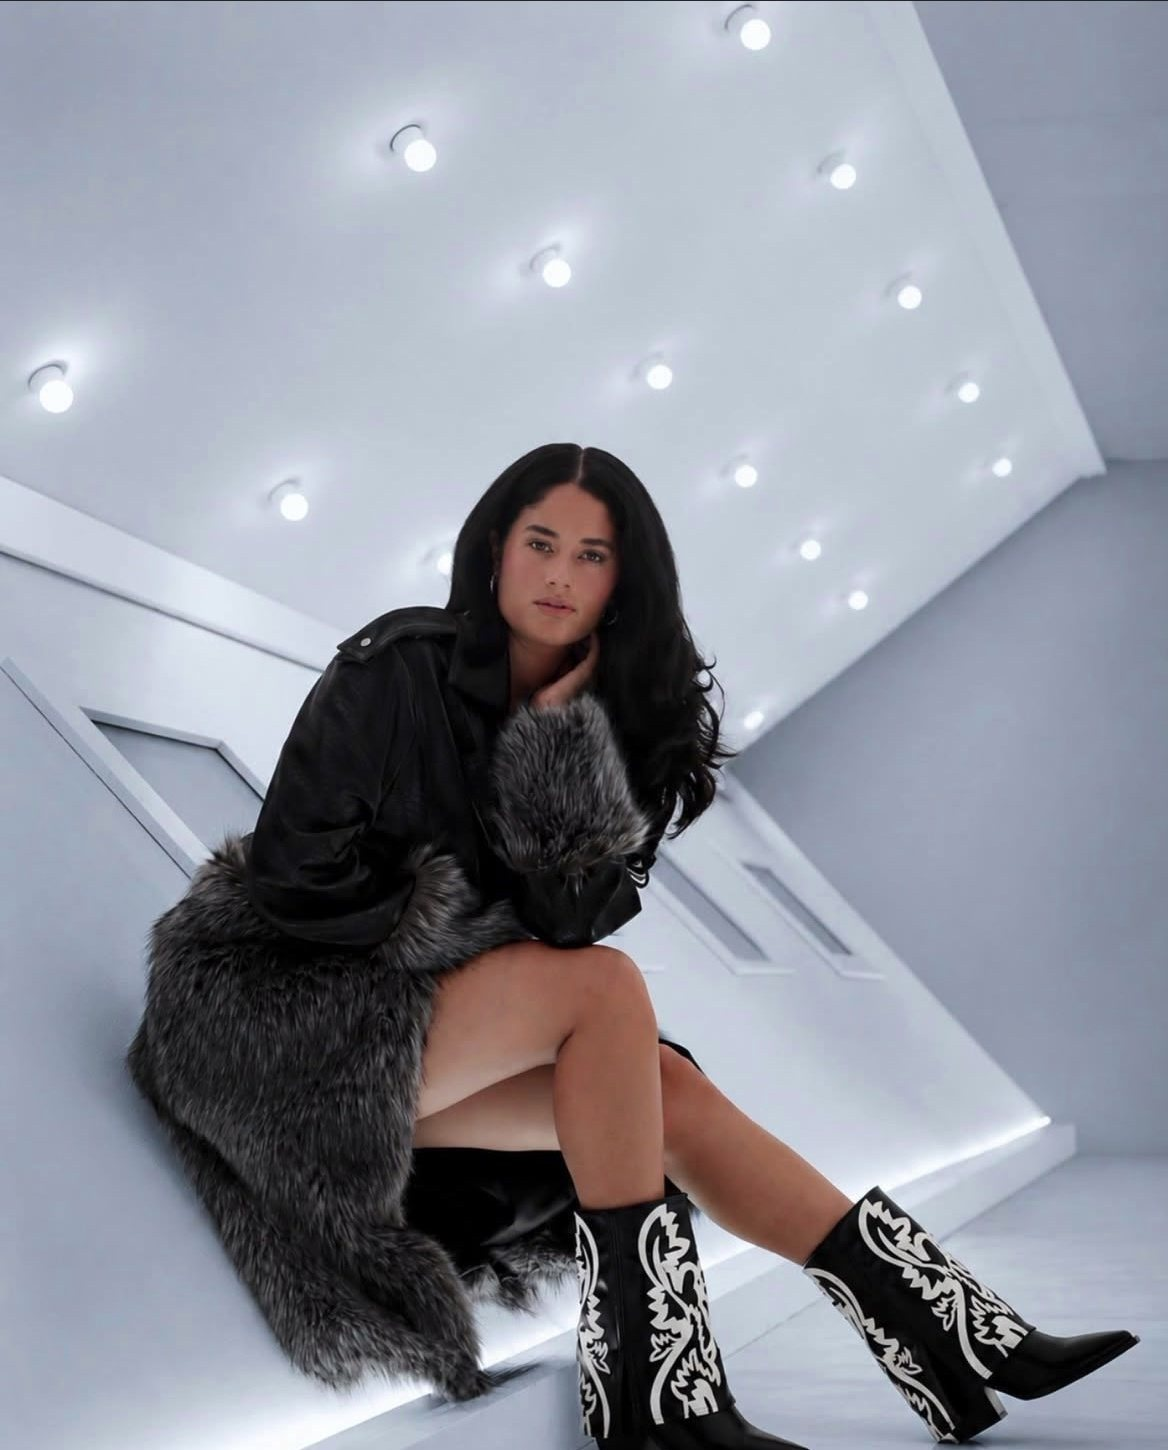
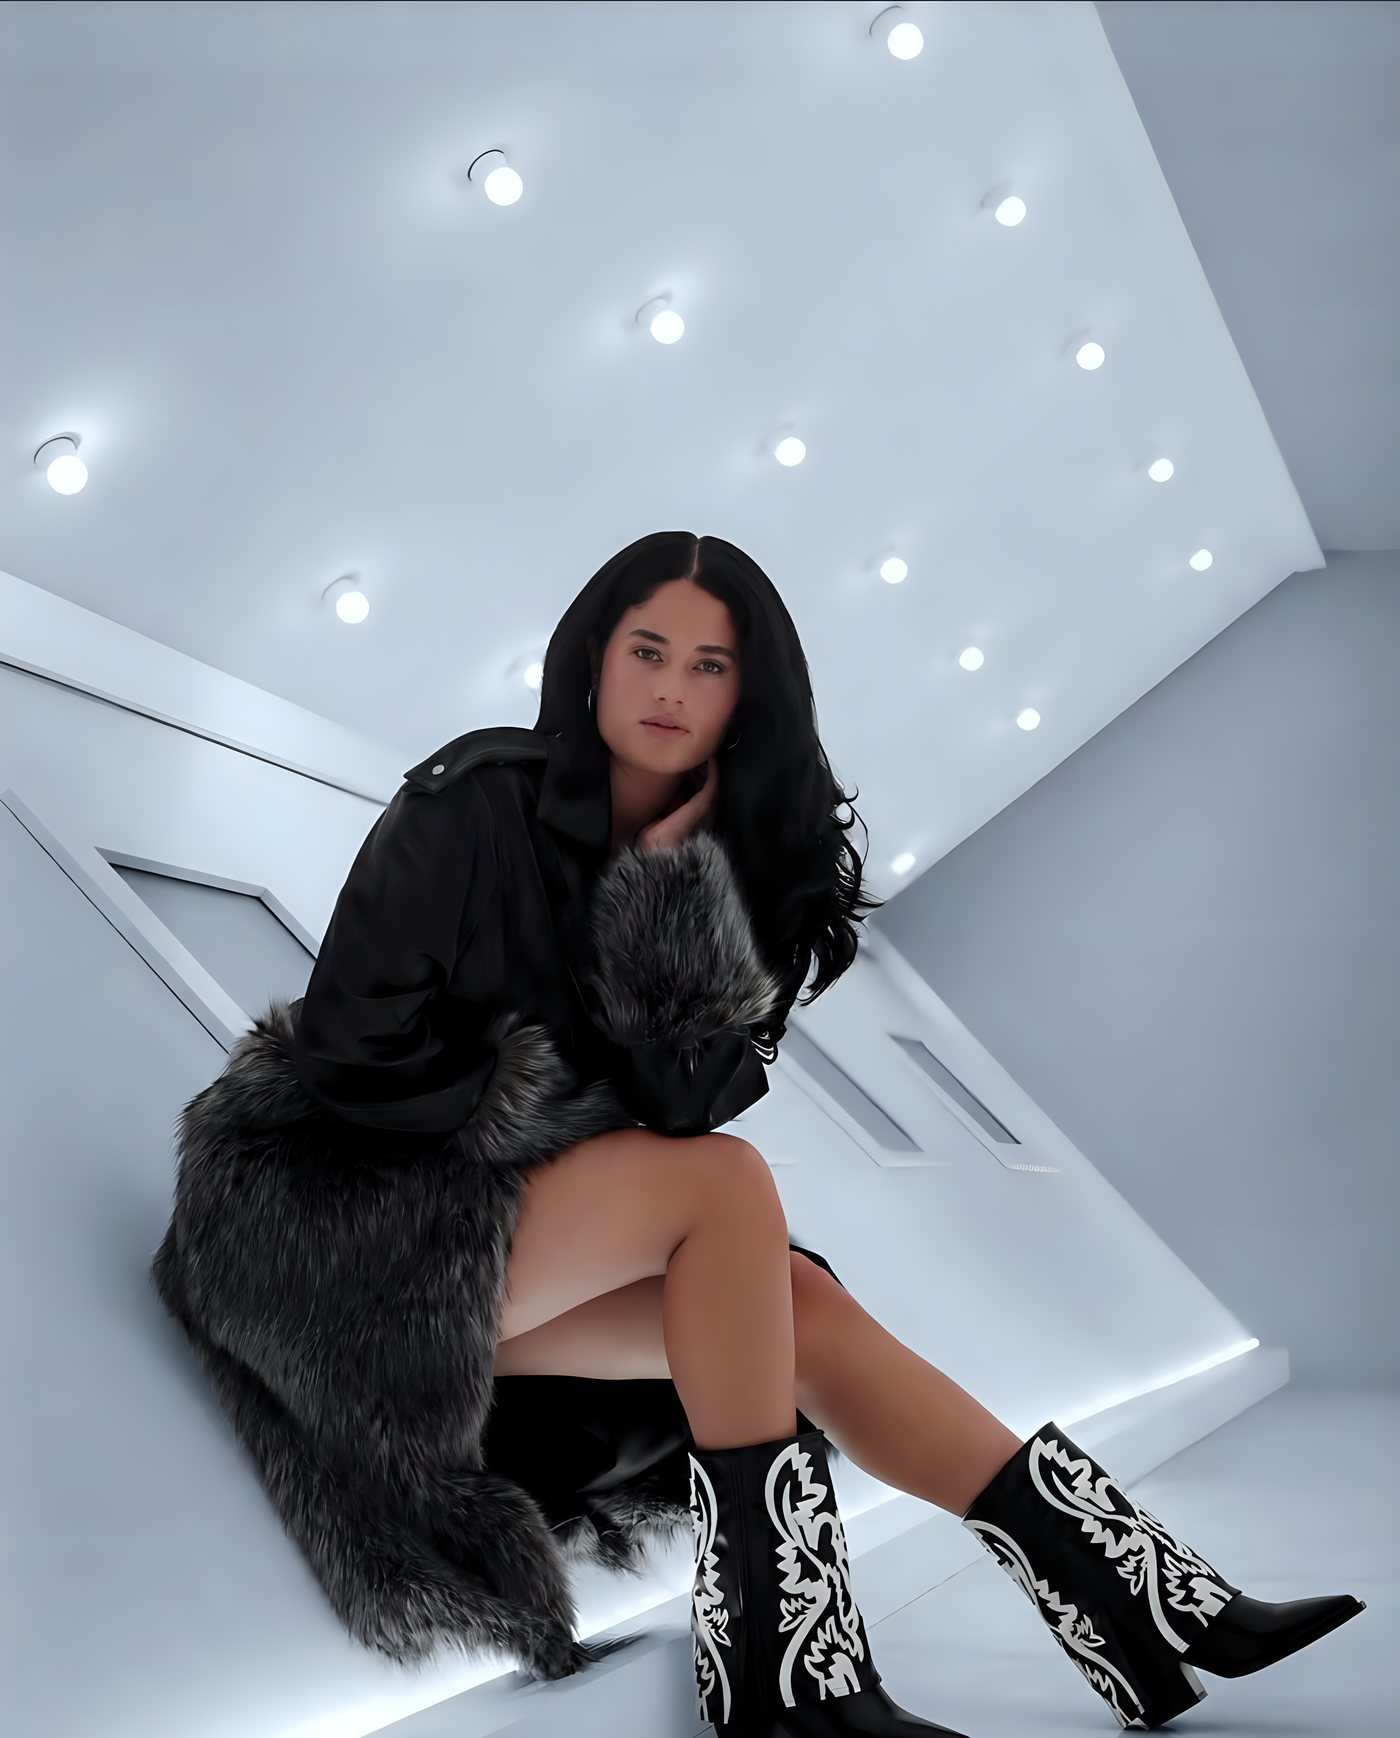
Enhance every Book a Shoot image and keep all heads in frame
All 16 portfolio images are re-upscaled 4x with Real-ESRGAN from their
cleanest source frames and saved at 1400px.
- Silver-beard portrait: Instagram's "1/2" badge is painted out
  instead of cropped, so his full head is back.
- Fitness bench shot: re-cropped higher from the flyer with the frame
  line painted out, so the whole beanie shows.

An automated face check (crop and overlap, 7 viewport widths) reports
no hidden faces.

Claude-Session: https://claude.ai/code/session_018kHvtx6hTxezyWP4kJpPeQ

diff --git a/book-a-shoot/index.html b/book-a-shoot/index.html
@@ -246,9 +246,9 @@
       </div>
     </div>
     <div class="bs-stack" aria-hidden="true">
-      <figure class="s1"><img src="../images/book-a-shoot/editorial-lace.jpg" alt="" width="1168" height="1455"></figure>
-      <figure class="s2"><img src="../images/book-a-shoot/editorial-blue.jpg" alt="" width="1168" height="1340" style="object-position:center 20%"></figure>
-      <figure class="s3"><img src="../images/book-a-shoot/portrait-white-dress.jpg" alt="" width="1168" height="1340" style="object-position:62% center"><figcaption>@aureanatphoto</figcaption></figure>
+      <figure class="s1"><img src="../images/book-a-shoot/editorial-lace.jpg" alt="" width="1400" height="1744"></figure>
+      <figure class="s2"><img src="../images/book-a-shoot/editorial-blue.jpg" alt="" width="1400" height="1606" style="object-position:center 20%"></figure>
+      <figure class="s3"><img src="../images/book-a-shoot/portrait-white-dress.jpg" alt="" width="1400" height="1606" style="object-position:62% center"><figcaption>@aureanatphoto</figcaption></figure>
     </div>
   </div>
 </header>
@@ -264,7 +264,7 @@
     </p>
     <div class="bs-services">
       <article class="bs-card" id="fitness">
-        <div class="media"><img src="../images/book-a-shoot/fitness-bench.jpg" alt="Woman in a black training set seated on a gym bench in front of a dumbbell rack" width="1200" height="1784" loading="lazy" style="object-position:center 4%"></div>
+        <div class="media"><img src="../images/book-a-shoot/fitness-bench.jpg" alt="Woman in a black training set seated on a gym bench in front of a dumbbell rack" width="1200" height="1977" loading="lazy" style="object-position:center top"></div>
         <div class="body">
           <div class="tag">In the gym</div>
           <h3>Fitness Shoot</h3>
@@ -274,7 +274,7 @@
         </div>
       </article>
       <article class="bs-card" id="headshots">
-        <div class="media"><img src="../images/book-a-shoot/headshot-blonde.jpg" alt="Close-up portrait of a woman with long wavy strawberry-blonde hair" width="1168" height="940" loading="lazy" style="object-position:48% center"></div>
+        <div class="media"><img src="../images/book-a-shoot/headshot-blonde.jpg" alt="Close-up portrait of a woman with long wavy strawberry-blonde hair" width="1400" height="1127" loading="lazy" style="object-position:48% center"></div>
         <div class="body">
           <div class="tag">Professional</div>
           <h3>Headshots</h3>
@@ -284,7 +284,7 @@
         </div>
       </article>
       <article class="bs-card" id="individual">
-        <div class="media"><img src="../images/book-a-shoot/editorial-lace.jpg" alt="Woman in black lace and thigh-high boots posing on a chair among stacked vintage TVs" width="1168" height="1455" loading="lazy" style="object-position:center 15%"></div>
+        <div class="media"><img src="../images/book-a-shoot/editorial-lace.jpg" alt="Woman in black lace and thigh-high boots posing on a chair among stacked vintage TVs" width="1400" height="1744" loading="lazy" style="object-position:center 15%"></div>
         <div class="body">
           <div class="tag">Portrait &amp; editorial</div>
           <h3>Individual Shoot</h3>
@@ -318,21 +318,21 @@
     </p>
   </div>
   <div class="bs-reel" id="bsReel" tabindex="0" aria-label="Portfolio photos. Swipe or scroll sideways">
-    <figure><img src="../images/book-a-shoot/editorial-blue.jpg" width="1168" height="1340" alt="Woman with long blonde hair lit in blue, hands raised to her head"><figcaption>Editorial</figcaption></figure>
-    <figure><img src="../images/book-a-shoot/headshot-blonde.jpg" width="1168" height="940" loading="lazy" alt="Close-up portrait of a woman with long wavy strawberry-blonde hair"><figcaption>Headshot</figcaption></figure>
-    <figure><img src="../images/book-a-shoot/editorial-lace.jpg" width="1168" height="1455" loading="lazy" alt="Woman in black lace and thigh-high boots among stacked vintage TVs"><figcaption>Editorial</figcaption></figure>
-    <figure><img src="../images/book-a-shoot/fitness-bench.jpg" width="1200" height="1784" loading="lazy" alt="Woman in a black training set seated on a gym bench"><figcaption>Fitness</figcaption></figure>
-    <figure><img src="../images/book-a-shoot/editorial-bw.jpg" width="1168" height="1380" loading="lazy" alt="Black-and-white poolside portrait of a woman in a polka-dot swimsuit, headscarf and sunglasses"><figcaption>Editorial</figcaption></figure>
-    <figure><img src="../images/book-a-shoot/portrait-white-dress.jpg" width="1168" height="1340" loading="lazy" alt="Woman in a white slip dress seated by a window"><figcaption>Portrait</figcaption></figure>
-    <figure><img src="../images/book-a-shoot/editorial-fur.jpg" width="1168" height="1450" loading="lazy" alt="Woman in a fur coat and western boots in a white light tunnel"><figcaption>Editorial</figcaption></figure>
-    <figure><img src="../images/book-a-shoot/headshot-silver.jpg" width="1168" height="980" loading="lazy" alt="Man with a long white beard and bold black glasses in a white shirt"><figcaption>Portrait</figcaption></figure>
-    <figure><img src="../images/book-a-shoot/editorial-purple.jpg" width="1168" height="1455" loading="lazy" alt="Man in sunglasses and a utility vest against a purple collage wall"><figcaption>Editorial</figcaption></figure>
-    <figure><img src="../images/book-a-shoot/runway.jpg" width="680" height="1500" loading="lazy" alt="Model in a sheer black gown on an outdoor runway at night"><figcaption>Runway</figcaption></figure>
-    <figure><img src="../images/book-a-shoot/portrait-denim.jpg" width="898" height="1345" loading="lazy" alt="Man in a patchwork denim jacket posing against a denim wall"><figcaption>Portrait</figcaption></figure>
-    <figure><img src="../images/book-a-shoot/editorial-pool.jpg" width="1168" height="1200" loading="lazy" alt="Woman in sunglasses and a black-and-white set leaning on a tiled poolside bar"><figcaption>Editorial</figcaption></figure>
-    <figure><img src="../images/book-a-shoot/duo.jpg" width="1168" height="1440" loading="lazy" alt="Two women with red neck scarves posing together on a tufted sofa"><figcaption>Duo</figcaption></figure>
-    <figure><img src="../images/book-a-shoot/editorial-red.jpg" width="1170" height="1270" loading="lazy" alt="Man in a striped knit stretching in front of a red circle on a white set"><figcaption>Editorial</figcaption></figure>
-    <figure><img src="../images/book-a-shoot/portrait-blue.jpg" width="1055" height="1417" loading="lazy" alt="Man in an open black wrap shirt against a pale blue backdrop"><figcaption>Portrait</figcaption></figure>
+    <figure><img src="../images/book-a-shoot/editorial-blue.jpg" width="1400" height="1606" alt="Woman with long blonde hair lit in blue, hands raised to her head"><figcaption>Editorial</figcaption></figure>
+    <figure><img src="../images/book-a-shoot/headshot-blonde.jpg" width="1400" height="1127" loading="lazy" alt="Close-up portrait of a woman with long wavy strawberry-blonde hair"><figcaption>Headshot</figcaption></figure>
+    <figure><img src="../images/book-a-shoot/editorial-lace.jpg" width="1400" height="1744" loading="lazy" alt="Woman in black lace and thigh-high boots among stacked vintage TVs"><figcaption>Editorial</figcaption></figure>
+    <figure><img src="../images/book-a-shoot/fitness-bench.jpg" width="1200" height="1977" loading="lazy" alt="Woman in a black training set seated on a gym bench"><figcaption>Fitness</figcaption></figure>
+    <figure><img src="../images/book-a-shoot/editorial-bw.jpg" width="1400" height="1654" loading="lazy" alt="Black-and-white poolside portrait of a woman in a polka-dot swimsuit, headscarf and sunglasses"><figcaption>Editorial</figcaption></figure>
+    <figure><img src="../images/book-a-shoot/portrait-white-dress.jpg" width="1400" height="1606" loading="lazy" alt="Woman in a white slip dress seated by a window"><figcaption>Portrait</figcaption></figure>
+    <figure><img src="../images/book-a-shoot/editorial-fur.jpg" width="1400" height="1738" loading="lazy" alt="Woman in a fur coat and western boots in a white light tunnel"><figcaption>Editorial</figcaption></figure>
+    <figure><img src="../images/book-a-shoot/headshot-silver.jpg" width="1400" height="1378" loading="lazy" alt="Man with a long white beard and bold black glasses in a white shirt"><figcaption>Portrait</figcaption></figure>
+    <figure><img src="../images/book-a-shoot/editorial-purple.jpg" width="1400" height="1744" loading="lazy" alt="Man in sunglasses and a utility vest against a purple collage wall"><figcaption>Editorial</figcaption></figure>
+    <figure><img src="../images/book-a-shoot/runway.jpg" width="900" height="1985" loading="lazy" alt="Model in a sheer black gown on an outdoor runway at night"><figcaption>Runway</figcaption></figure>
+    <figure><img src="../images/book-a-shoot/portrait-denim.jpg" width="1400" height="2097" loading="lazy" alt="Man in a patchwork denim jacket posing against a denim wall"><figcaption>Portrait</figcaption></figure>
+    <figure><img src="../images/book-a-shoot/editorial-pool.jpg" width="1400" height="1438" loading="lazy" alt="Woman in sunglasses and a black-and-white set leaning on a tiled poolside bar"><figcaption>Editorial</figcaption></figure>
+    <figure><img src="../images/book-a-shoot/duo.jpg" width="1400" height="1726" loading="lazy" alt="Two women with red neck scarves posing together on a tufted sofa"><figcaption>Duo</figcaption></figure>
+    <figure><img src="../images/book-a-shoot/editorial-red.jpg" width="1400" height="1520" loading="lazy" alt="Man in a striped knit stretching in front of a red circle on a white set"><figcaption>Editorial</figcaption></figure>
+    <figure><img src="../images/book-a-shoot/portrait-blue.jpg" width="1400" height="1880" loading="lazy" alt="Man in an open black wrap shirt against a pale blue backdrop"><figcaption>Portrait</figcaption></figure>
     <figure><img src="../images/book-a-shoot/fitness-portrait.jpg" width="1200" height="1297" loading="lazy" alt="Smiling woman in a black tank top with arms crossed in a gym"><figcaption>Fitness</figcaption></figure>
   </div>
   <div class="bs-controls">
@@ -347,7 +347,7 @@
   <div class="container-narrow bs-meet">
     <figure class="fade-in">
       <!-- Photo of Nat by another photographer: add a visible credit (figcaption) once Zay confirms who shot it. -->
-      <img src="../images/book-a-shoot/meet-nat.jpg" width="1168" height="1608" loading="lazy"
+      <img src="../images/book-a-shoot/meet-nat.jpg" width="1400" height="1927" loading="lazy"
            alt="Nat Guerrero seated on a director's chair holding a clapperboard in a studio">
     </figure>
     <div>

diff --git a/_docs/CONVERSION_OPTIMIZATION_LOG.md b/_docs/CONVERSION_OPTIMIZATION_LOG.md
@@ -14,6 +14,24 @@ data per event plus qualitative feedback.
 
 ---
 
+## 2026-10-29 — Book a Shoot images enhanced; no heads cut off
+- **Pages:** `book-a-shoot/`, `images/book-a-shoot/` (16 images)
+- **Category:** A → D
+- **Problem:** Portfolio images were ~1170px screen-recording crops (soft, HEVC artifacts);
+  two crops cut heads (silver-beard portrait's top-knot, fitness-bench beanie); the hero stack's
+  front card covered part of a face at every width.
+- **Change:** Every image re-run through Real-ESRGAN ×4 (CPU/ONNX) from the cleanest source
+  frame, saved at 1400px (runway 900px). Silver portrait: IG's "1/2" badge inpainted instead of
+  cropped, so the full head is back. Fitness bench: re-cropped higher from the flyer and the
+  tilted frame line inpainted, so the whole beanie is in frame. Hero stack front card lowered
+  (top 22%→30%, height 72%→68%).
+- **Tested:** automated face check — head boxes for all 17 images mapped through object-fit/
+  object-position and sampled with `elementFromPoint` (catches crop *and* overlap) at
+  360/390/768/1081/1280/1400/1920px: 0 failures. Page total images 3.8 MB, all below-the-fold
+  ones lazy-loaded.
+- **Expected impact:** Medium on trust/perceived quality of the shoot offer; unmeasured.
+- **Measure:** DM inquiries per week from the Book a Shoot page (ask "where did you find us").
+
 ## 2026-10-29 — Homepage hero sells the next event; ticket inclusions on checkout
 - **Pages:** `index.html` hero, `styles.css` (hero block), `events/the-statement/checkout/`
 - **Category:** A → D (implemented; impact unmeasured)
